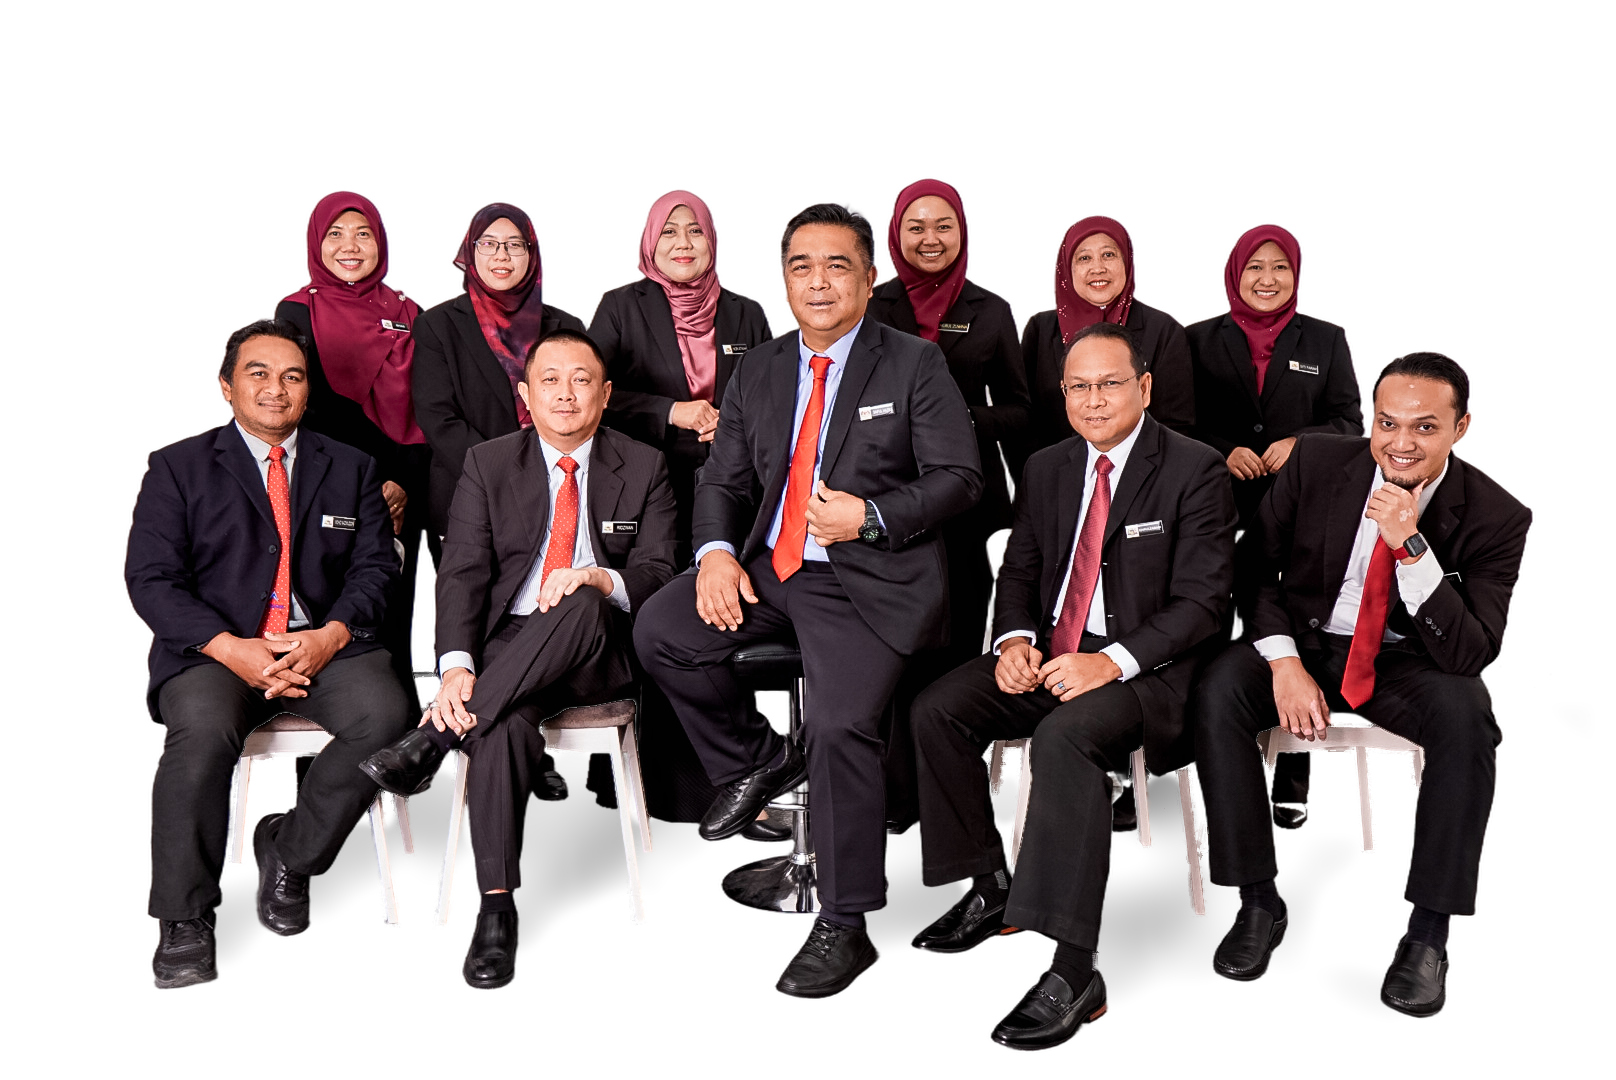
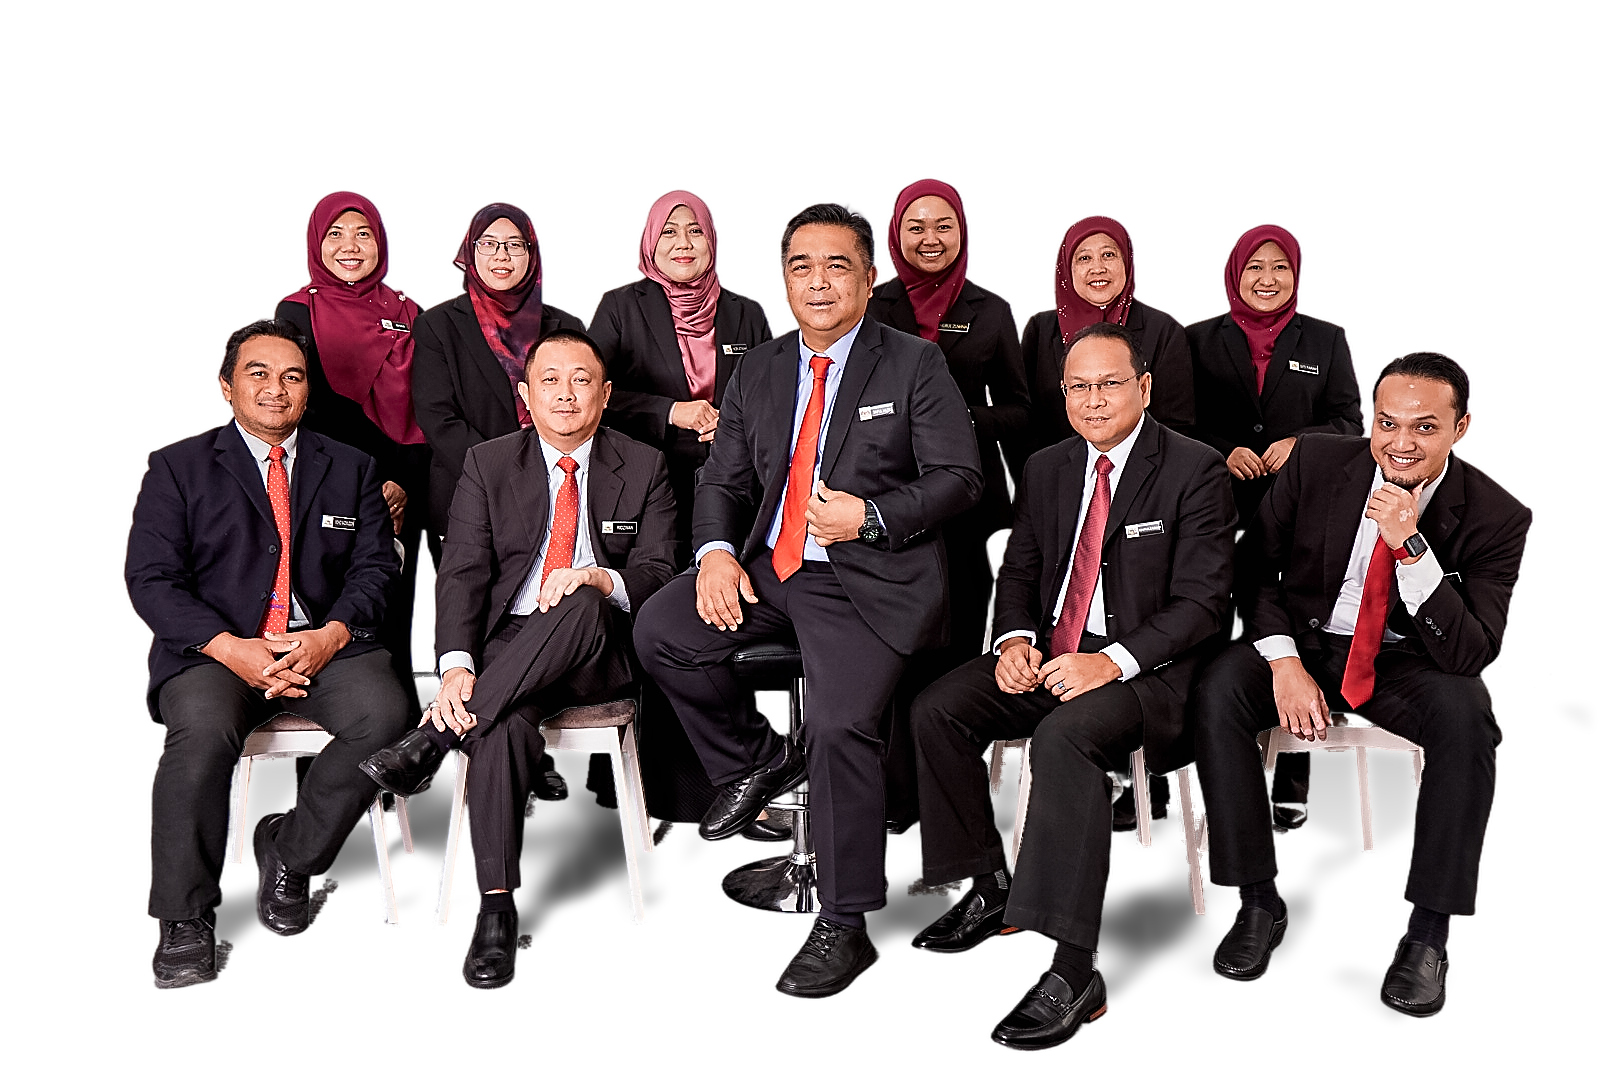
GROUPING MCORP: v3 fill white gaps between legs and under seats, sharpen
Dark clothing seen between seated people is kept instead of turning white,
seat cushions no longer dropped, deep floor shadows and a soft shadow under
each chair seat ground the furniture, and a luminance unsharp mask sharpens
all ten photos.

Claude-Session: https://claude.ai/code/session_014fjMytN3Q8BaqcuncxWeag

diff --git a/scripts/studio-bg/studio.py b/scripts/studio-bg/studio.py
@@ -31,7 +31,7 @@ def shading(im, alpha, debug=None):
     out = np.ones((H, W), np.float32)
     xx = np.arange(W)[None, :]
     edge = np.clip((np.minimum(xx, W - 1 - xx) - 20) / 60.0, 0, 1)
-    for region, s, t, k in (((yy > s1) & np.ones((1, W), bool), 18, 0.78, 0.5),):
+    for region, s, t, k in (((yy > s1) & np.ones((1, W), bool), 10, 0.75, 0.72),):
         w = (bg & region).astype(np.float32)
         low, den = nblur(L.astype(np.float32), w, s)
         ref = np.array([np.percentile(low[y][w[y] > 0], 80) if w[y].sum() > 40 else np.nan for y in range(H)])
@@ -39,18 +39,53 @@ def shading(im, alpha, debug=None):
         ref = np.interp(idx, idx[ok], ref[ok]) if ok.any() else np.full(H, 255.0)
         ref = np.convolve(np.pad(ref, 40, mode='edge'), np.ones(81) / 81, 'valid')
         ratio = np.where(den > 0.15, low / ref[:, None], 1.0)
-        sh = np.clip(1 - ratio / t, 0, 1) * k * near * np.clip((yy - s1) / 35.0, 0, 1) * edge
+        u = np.clip((t - ratio) / (t - 0.3), 0, 1)
+        sh = u * u * (3 - 2 * u) * k * near * np.clip((yy - s1) / 35.0, 0, 1) * edge
         out = np.where(region, 1 - sh, out)
     out = cv2.GaussianBlur(out, (0, 0), 3)
     if debug: Image.fromarray((out * 255).astype(np.uint8)).save(debug)
     return out, (fy, s0, s1)
 
-def composite(src, mpath, out, debug=None):
+def sharpen(rgb):
+    """Two-scale unsharp mask on luminance only (no colour fringing)."""
+    Y = rgb @ np.array([0.299, 0.587, 0.114])
+    d = np.zeros_like(Y)
+    for sig, amt in ((0.7, 0.9), (1.6, 0.45)):
+        hp = Y - cv2.GaussianBlur(Y, (0, 0), sig)
+        hp = np.sign(hp) * np.maximum(np.abs(hp) - 0.004, 0)
+        d += amt * hp
+    return np.clip(rgb + d[..., None], 0, 1)
+
+def seat_shade(S, chair):
+    """Soft occlusion shadow on the floor under each chair seat, between its legs."""
+    H, W = S.shape
+    yy = np.arange(H)[:, None]
+    hard = (chair > 0.5).astype(np.uint8)
+    n, lab, st, _ = cv2.connectedComponentsWithStats(cv2.dilate(hard, np.ones((9, 9), np.uint8)), 8)
+    occ = np.zeros((H, W), np.float32)
+    for i in range(1, n):
+        if st[i][4] < 1500: continue
+        comp = (lab == i) & (hard > 0)
+        rows = np.nonzero(comp.sum(1) >= 25)[0]
+        if not len(rows): continue
+        top, bot = rows[0] + 20, st[i][1] + st[i][3]
+        pts = cv2.findNonZero(comp.astype(np.uint8))
+        hull = np.zeros((H, W), np.uint8)
+        cv2.fillConvexPoly(hull, cv2.convexHull(pts), 1)
+        under = (hull > 0) & ~comp & (yy > top)
+        grad = np.clip(1 - 0.6 * (yy - top) / max(bot - top, 1), 0.3, 1)
+        occ = np.maximum(occ, under * grad * 0.2)
+    occ = cv2.GaussianBlur(occ, (0, 0), 6)
+    return S * (1 - occ)
+
+def composite(src, mpath, out, debug=None, chairpath=None):
     pil = Image.open(src)
     im = np.asarray(pil.convert('RGB')).astype(np.float64) / 255
     a = np.asarray(Image.open(mpath).convert('L')).astype(np.float64) / 255
     S, info = shading(im * 255, a, debug)
-    fg = estimate_foreground_ml(im, a)
+    if chairpath:
+        S = seat_shade(S, np.asarray(Image.open(chairpath).convert('L')).astype(np.float32) / 255)
+    fg = sharpen(estimate_foreground_ml(im, a))
     a3 = a[..., None]
     o = fg * a3 + S[..., None] * (1 - a3)
     Image.fromarray((np.clip(o, 0, 1) * 255 + .5).astype(np.uint8)).save(
@@ -58,4 +93,4 @@ def composite(src, mpath, out, debug=None):
     return info
 
 if __name__ == '__main__':
-    print(composite(*sys.argv[1:4], *(sys.argv[4:5])))
+    print(composite(sys.argv[1], sys.argv[2], sys.argv[3], None, *(sys.argv[4:5])))

diff --git a/scripts/studio-bg/darkfill.py b/scripts/studio-bg/darkfill.py
@@ -1,0 +1,40 @@
+"""Keep dark clothing / under-seat darkness seen between people (back row, crotch gaps):
+dark pixels connected to the subject inside holes or right next to it become subject."""
+import sys, numpy as np, cv2
+from PIL import Image
+from studio import skirting
+src, mp, out = sys.argv[1:4]
+im = np.asarray(Image.open(src).convert('RGB')).astype(np.float32)
+g = im.mean(2)
+f = np.asarray(Image.open(mp).convert('L')).astype(np.float32) / 255
+H, W = f.shape
+subj = (f > 0.5).astype(np.uint8)
+bgc = (f < 0.5).astype(np.uint8)
+k, lab, st, _ = cv2.connectedComponentsWithStats(bgc, 4)
+holes = np.zeros((H, W), bool)
+for i in range(1, k):
+    x, y, w, h, a = st[i]
+    if x > 0 and y > 0 and x + w < W and y + h < H:
+        holes |= lab == i
+_, s0, s1 = skirting(g, ~cv2.dilate(subj, np.ones((7, 7), np.uint8)).astype(bool), H)
+band = np.zeros((H, W), bool); band[s0 - 3:s1 + 3] = True
+near = cv2.dilate(subj, np.ones((31, 31), np.uint8)) > 0
+region = holes | (near & ~band)
+region[:, :40] = holes[:, :40]; region[:, W - 80:] = holes[:, W - 80:]
+tex = cv2.blur(np.abs(g - cv2.GaussianBlur(g, (0, 0), 1.0)), (5, 5))
+up = np.roll(g, 14, 0); dn = np.roll(g, -14, 0)
+thin = (g < 70) & (up > 140) & (dn > 95)
+thin = cv2.dilate(thin.astype(np.uint8), np.ones((7, 9), np.uint8)) > 0
+dark = (g < 62) & (tex < 8) & region & (f < 0.5) & ~thin
+dark = cv2.morphologyEx(dark.astype(np.uint8), cv2.MORPH_OPEN, np.ones((4, 4), np.uint8)) > 0
+k2, lab2, st2, _ = cv2.connectedComponentsWithStats(dark.astype(np.uint8), 8)
+touch = cv2.dilate(subj, np.ones((5, 5), np.uint8)) > 0
+keep = np.zeros((H, W), bool)
+ids = np.unique(lab2[touch & dark])
+for i in ids:
+    if i and st2[i][4] >= 80:
+        keep |= lab2 == i
+add = np.clip((70 - g) / 30, 0, 1) * cv2.dilate(keep.astype(np.uint8), np.ones((3, 3), np.uint8))
+add = cv2.GaussianBlur(add.astype(np.float32), (0, 0), 0.7)
+print('added px', int(keep.sum()))
+Image.fromarray((np.maximum(f, add) * 255 + .5).astype(np.uint8)).save(out)

diff --git a/scripts/studio-bg/merge3.py b/scripts/studio-bg/merge3.py
@@ -13,7 +13,10 @@ n0, lab0, st0, _ = cv2.connectedComponentsWithStats(cv2.dilate(hard, np.ones((7,
 yy = np.arange(g.shape[0])[:, None]
 seat = np.zeros(g.shape, bool)
 for i in range(1, n0):
-    seat |= (lab0 == i) & (yy <= st0[i][1] + 40)
+    comp = lab0 == i
+    rows = np.nonzero(comp.sum(1) >= 25)[0]
+    top = rows[0] if len(rows) else st0[i][1]
+    seat |= comp & (yy <= top + 45)
 carpet = (g < 150) & (tex > 5) & (a < 0.5) & ~seat
 carpet = cv2.morphologyEx(carpet.astype(np.uint8), cv2.MORPH_CLOSE, np.ones((3, 3), np.uint8)) > 0
 c[carpet] = 0

diff --git a/edits/grouping-mcorp/NOTES.md b/edits/grouping-mcorp/NOTES.md
@@ -16,4 +16,9 @@ Pipeline v2 (`scripts/studio-bg/`, run from a work dir with originals in `../dl/
    (06, 07 also take `extra.py` chair/body prompts from v1.)
 4. `refine.py` — closed-form matting in a thin band around the chairs for clean leg edges.
 5. `backrow.py` — back-row shoes/skirts visible between chairs recovered with SAM.
-6. `studio.py` — white background + real floor shadows, foreground colour decontamination.
+6. `darkfill.py` — dark clothing / under-seat darkness between people (back row, crotch gaps) kept
+   instead of turning white; skirting line excluded.
+7. `studio.py [chairs mask]` — white background + real floor shadows (deep shadows only, carpet tile
+   pattern dropped), soft occlusion shadow under each chair seat, foreground colour decontamination,
+   two-scale luminance unsharp mask.
+`chain.sh NN` runs steps 3–7 for a chair photo.
